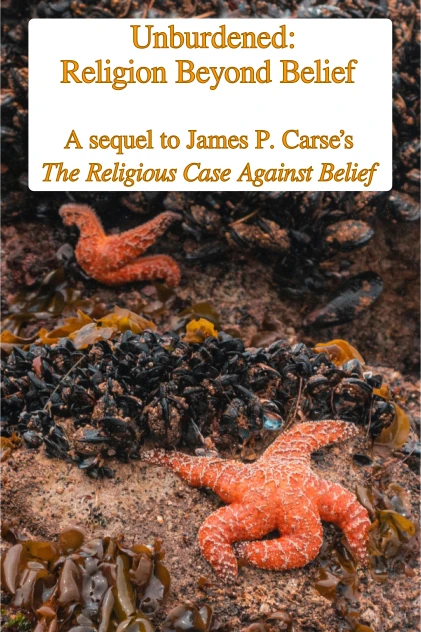
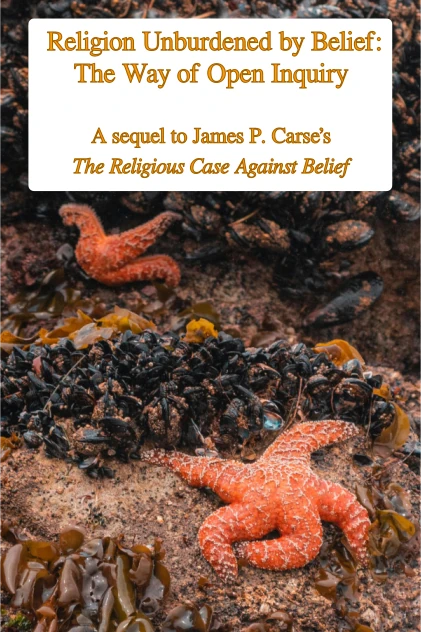
Rename book

Changed region(s): [[0.0926, 0.0301, 0.9264, 0.1503], [0.0926, 0.1804, 0.8955, 0.3006]]

diff --git a/content/docs/staff/joshua/urbb.md b/content/docs/staff/joshua/urbb.md
@@ -1,5 +1,5 @@
 ---
-title: Unburdened Book
+title: Open Inquiry Book
 weight: 10
 bookToc: false
 ---
@@ -12,9 +12,9 @@ bookToc: false
 
 <div style="display: inline-block; background-color: #ff9800; color: white; padding: 5px 15px; border-radius: 20px; font-weight: bold; margin-bottom: 20px;">Coming soon!</div>
 
-In his groundbreaking new book, Joshua Pritikin explores the provocative idea that belief systems obstruct authentic religious experience. Building on James Carse's foundational work, "Unburdened" takes this premise to its logical conclusion, offering a methodical investigation into what religion might look like when freed from the constraints of belief.
+In his groundbreaking new book, Joshua Pritikin explores the provocative idea that belief systems obstruct authentic religious experience. Building on James Carse's foundational work, "The Way" takes this premise to its logical conclusion, offering a methodical investigation into what religion might look like when freed from the constraints of belief.
 
-Pritikin masterfully integrates diverse traditions—from ancient shamanic practices to contemporary psychological frameworks like Internal Family Systems therapy—to create a practical roadmap for direct religious experience. The book guides readers through meditation techniques, community ceremonies, and altered states of consciousness while maintaining a critical stance toward intermediaries who claim special access to religious truth. "Unburdened" invites readers to step beyond dogma into a more authentic engagement with life's profound mysteries.
+Pritikin masterfully integrates diverse traditions—from ancient shamanic practices to contemporary psychological frameworks like Internal Family Systems therapy—to create a practical roadmap for direct religious experience. The book guides readers through meditation techniques, community ceremonies, and altered states of consciousness while maintaining a critical stance toward intermediaries who claim special access to religious truth. "The Way" invites readers to step beyond dogma into a more authentic engagement with life's profound mysteries.
 
 </br>
 

diff --git a/content/docs/staff/joshua/_index.md b/content/docs/staff/joshua/_index.md
@@ -116,13 +116,13 @@ I get attached to my clients. If we haven't had an appointment for more than 6 m
 
 {{% columns %}}
 
-In his groundbreaking new book, Joshua Pritikin explores the provocative idea that belief systems obstruct authentic religious experience. Building on James Carse's foundational work, "Unburdened" takes this premise to its logical conclusion, offering a methodical investigation into what religion might look like when freed from the constraints of belief.
+In his groundbreaking new book, Joshua Pritikin explores the provocative idea that belief systems obstruct authentic religious experience. Building on James Carse's foundational work, "The Way" takes this premise to its logical conclusion, offering a methodical investigation into what religion might look like when freed from the constraints of belief.
 
 [Get notified]({{< relref "urbb" >}})
 
 <--->
 
-[![Pritikin 202X](unburdened.webp)]({{< relref "urbb" >}})
+[![Pritikin 202X](the-way-small.webp)]({{< relref "urbb" >}})
 
 {{% /columns %}}
 
